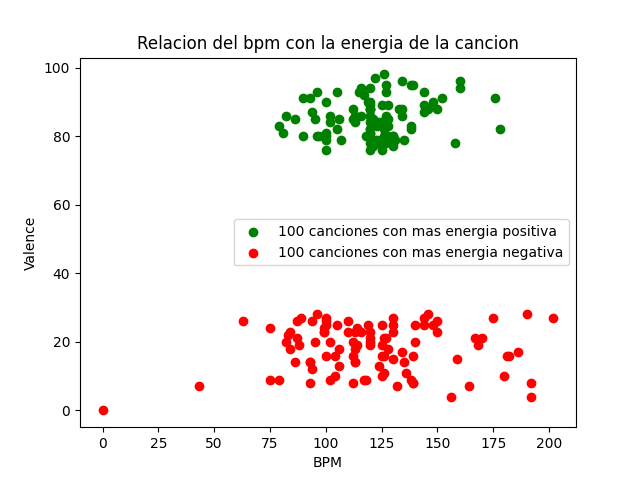
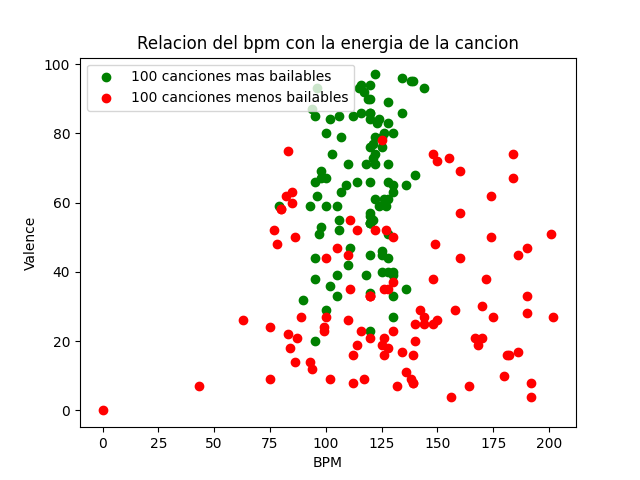
Changed variable to sort values by

diff --git a/P3_DataVisualization.py b/P3_DataVisualization.py
@@ -1,13 +1,13 @@
 import pandas as pd
 import matplotlib.pyplot as plt
 
-data = pd.read_csv('data/top10s_clean.csv', index_col=0).sort_values(by='valence', axis=0, ascending=False)
+data = pd.read_csv('data/top10s_clean.csv', index_col=0).sort_values(by='dance', axis=0, ascending=False)
 
 top100 = data.head(100)
 bot100 = data.tail(100)
 
-plt.scatter(top100.bpm, top100.valence, color='green', label='100 canciones con mas energia positiva')
-plt.scatter(bot100.bpm, bot100.valence, color='red', label='100 canciones con mas energia negativa')
+plt.scatter(top100.bpm, top100.valence, color='green', label='100 canciones mas bailables')
+plt.scatter(bot100.bpm, bot100.valence, color='red', label='100 canciones menos bailables')
 plt.legend()
 plt.title('Relacion del bpm con la energia de la cancion')
 plt.xlabel('BPM')
